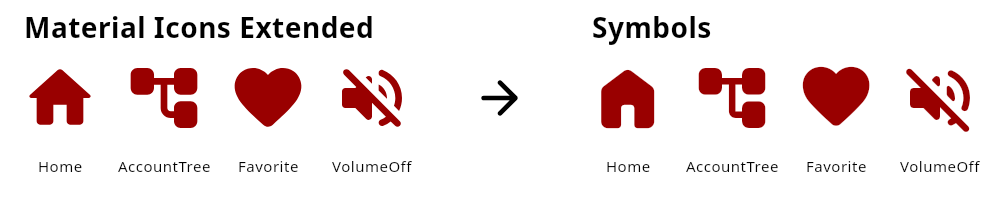
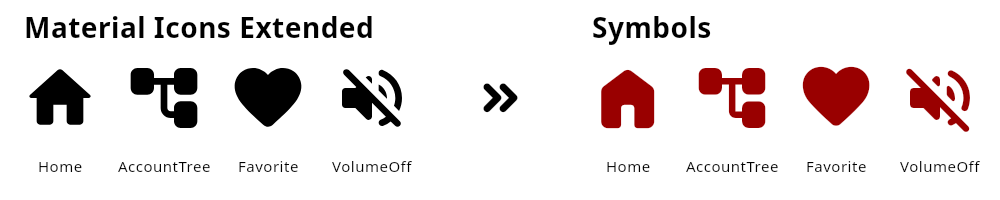
Animate Symbols colors and double-arrow cues during transitions

diff --git a/tools/readme-media/src/main/kotlin/ReadmeMedia.kt b/tools/readme-media/src/main/kotlin/ReadmeMedia.kt
@@ -1,6 +1,10 @@
 @file:OptIn(androidx.compose.ui.ExperimentalComposeUiApi::class)
 
 import androidx.compose.animation.core.animateFloatAsState
+import androidx.compose.animation.core.Animatable
+import androidx.compose.animation.core.CubicBezierEasing
+import androidx.compose.animation.core.FastOutSlowInEasing
+import androidx.compose.animation.core.keyframes
 import androidx.compose.foundation.background
 import androidx.compose.foundation.layout.Box
 import androidx.compose.foundation.layout.offset
@@ -15,8 +19,10 @@ import androidx.compose.material3.MaterialExpressiveTheme
 import androidx.compose.material3.MaterialTheme
 import androidx.compose.material3.Text
 import androidx.compose.runtime.Composable
+import androidx.compose.runtime.LaunchedEffect
 import androidx.compose.runtime.State
 import androidx.compose.runtime.mutableStateOf
+import androidx.compose.runtime.remember
 import androidx.compose.runtime.snapshots.Snapshot
 import androidx.compose.ui.Alignment
 import androidx.compose.ui.ImageComposeScene
@@ -30,7 +36,6 @@ import io.github.hlcaptain.symbols.Symbols
 import io.github.hlcaptain.symbols.font.SymbolFontIcon
 import io.github.hlcaptain.symbols.font.fontSettings
 import io.github.hlcaptain.symbols.material.*
-import io.github.hlcaptain.symbols.material.rounded.vectors.ArrowForward
 import io.github.hlcaptain.symbols.material.rounded.vectors.Home
 import java.io.File
 import javax.imageio.ImageIO
@@ -46,7 +51,6 @@ private const val Width = 1000
 private const val Height = 200
 private const val FrameNanos = 16_666_667L
 private const val SettledHoldFrames = 90 // 1.5 seconds after the spring finishes, at 60 Hz.
-private const val RainbowCycleFrames = 300 // Five seconds at 60 Hz.
 
 private data class Example(val legacy: ImageVector, val codePoint: Int) {
     val name: String get() = legacy.name.substringAfterLast('.')
@@ -109,6 +113,33 @@ private fun animatedAxes(target: Axes, finishedListener: ((Float) -> Unit)? = nu
 }
 
 @Composable
+private fun animatedTint(step: Float, finishedListener: ((Float) -> Unit)? = null): Color {
+    val animatedStep = animateFloatAsState(
+        step, MaterialTheme.motionScheme.defaultSpatialSpec<Float>(),
+        label = "Hue", finishedListener = finishedListener,
+    ).value
+    val hue = (animatedStep * 360f / ComparisonStates.lastIndex % 360f + 360f) % 360f
+    return Color.hsv(hue, 1f, 0.6f)
+}
+
+@Composable
+private fun animatedArrow(step: Float, finishedListener: (() -> Unit)? = null): Float {
+    val offset = remember { Animatable(0f) }
+    LaunchedEffect(step) {
+        if (step != 0f) {
+            offset.animateTo(0f, keyframes {
+                durationMillis = 1000
+                0f at 0 using FastOutSlowInEasing
+                8f at 350 using CubicBezierEasing(0.42f, 0f, 0.58f, 1f)
+                0f at 1000
+            })
+        }
+        finishedListener?.invoke()
+    }
+    return offset.value
+}
+
+@Composable
 private fun Label(text: String, x: Int, y: Int, size: Int = 16, bold: Boolean = false) {
     Text(
         text,
@@ -155,14 +186,24 @@ private fun Glyph(
 }
 
 @Composable
-private fun Comparison(target: Axes, tint: Color, extraDrawingSpace: Int = 0, finishedListener: (Float) -> Unit) {
+private fun Comparison(target: Axes, tint: Color, arrowOffset: Float = 0f, extraDrawingSpace: Int = 0, finishedListener: (Float) -> Unit) {
     val axes = animatedAxes(target, finishedListener)
     Box(Modifier.size(Width.dp, Height.dp).background(Color.White)) {
         Label("Material Icons Extended", 24, 8, 28, bold = true)
         Label("Symbols", 592, 8, 28, bold = true)
-        Icon(Icons.Rounded.ArrowForward, null, Modifier.offset(472.dp, 70.dp).size(56.dp), tint = Color.Black)
+        val arrowPadding = 56 / 8 + extraDrawingSpace
+        SymbolFontIcon(
+            codePoint = Symbols.Material.KeyboardDoubleArrowRight.codePoint,
+            font = Font,
+            contentDescription = null,
+            modifier = Modifier.offset((472f + arrowOffset - arrowPadding).dp, (70 - arrowPadding).dp)
+                .size((56 + arrowPadding * 2).dp),
+            size = 56.dp,
+            tint = Color.Black,
+            fontSettings = { Font.fontSettings(mapOf("wght" to 700f)) },
+        )
         Examples.forEachIndexed { i, icon ->
-            Icon(icon.legacy, null, Modifier.offset((20 + i * 104).dp, 58.dp).size(80.dp), tint = tint)
+            Icon(icon.legacy, null, Modifier.offset((20 + i * 104).dp, 58.dp).size(80.dp), tint = Color.Black)
             Glyph(icon.codePoint, 588 + i * 104, 58, 80, axes, extraDrawingSpace = extraDrawingSpace, tint = tint)
             listOf(10, 578).forEach { start ->
                 CenteredLabel(icon.name, start + i * 104, 150, 100, 15)
@@ -213,8 +254,10 @@ private suspend fun capture(name: String, comparison: Boolean) {
     val states = if (comparison) ComparisonStates else VariableStates
     val initial = states.first()
     val target = mutableStateOf(initial)
-    val tint = mutableStateOf(Color.hsv(0f, 1f, 0.6f))
+    val hueStep = mutableStateOf(0f)
     var animationFinished = true
+    var hueFinished = true
+    var arrowFinished = true
     if (comparison) {
         // One completion callback is sufficient only when exactly one axis changes.
         check(states.zipWithNext().all { (a, b) ->
@@ -224,19 +267,27 @@ private suspend fun capture(name: String, comparison: Boolean) {
     }
     val scene = ImageComposeScene(Width, Height, coroutineContext = Dispatchers.Unconfined) {
         MaterialExpressiveTheme {
-            if (comparison) Comparison(target.value, tint.value) { animationFinished = true } else VariableFonts(target.value)
+            if (comparison) {
+                Comparison(
+                    target.value,
+                    animatedTint(hueStep.value) { hueFinished = true },
+                    animatedArrow(hueStep.value) { arrowFinished = true },
+                ) {
+                    animationFinished = true
+                }
+            } else VariableFonts(target.value)
         }
     }
     // Same released renderer and font size, with a roomier layout to reveal internal clipping.
     val reference = ImageComposeScene(Width, Height, coroutineContext = Dispatchers.Unconfined) {
         MaterialExpressiveTheme {
-            if (comparison) Comparison(target.value, tint.value, extraDrawingSpace = 20) {}
+            if (comparison) Comparison(target.value, animatedTint(hueStep.value), animatedArrow(hueStep.value), extraDrawingSpace = 20) {}
             else VariableFonts(target.value, extraDrawingSpace = 20)
         }
     }
     // Skia's font antialiasing depends on tint; verify settled geometry in its original black.
     val shapes = if (comparison) ImageComposeScene(Width, Height, coroutineContext = Dispatchers.Unconfined) {
-        MaterialExpressiveTheme { Comparison(target.value, Color.Black) {} }
+        MaterialExpressiveTheme { Comparison(target.value, Color.Black, animatedArrow(hueStep.value)) {} }
     } else null
     var time = 0L
     var referencePng = byteArrayOf()
@@ -271,11 +322,6 @@ private suspend fun capture(name: String, comparison: Boolean) {
         check(states.last() == initial)
         var frameCount = 0
         fun recordFrame() {
-            if (comparison) Snapshot.withMutableSnapshot {
-                // ponytail: 10 Hz hue limits file size; remove quantization if 30 Hz fits the media budget.
-                val colorFrame = frameCount / 6 * 6
-                tint.value = Color.hsv((colorFrame % RainbowCycleFrames) * 360f / RainbowCycleFrames, 1f, 0.6f)
-            }
             val png = frame()
             if (frameCount % 2 == 0) {
                 val filename = "%04d.png".format(frameCount / 2)
@@ -289,9 +335,14 @@ private suspend fun capture(name: String, comparison: Boolean) {
             val startFrame = frameCount
             var settledFrame: Int? = null
             animationFinished = index == 0
-            Snapshot.withMutableSnapshot { target.value = axes }
+            hueFinished = index == 0
+            arrowFinished = index == 0
+            Snapshot.withMutableSnapshot {
+                target.value = axes
+                hueStep.value = index.toFloat()
+            }
             if (comparison) {
-                while (!animationFinished) {
+                while (!animationFinished || !hueFinished || !arrowFinished) {
                     check(frameCount - startFrame < 600) { "Animation did not finish: $axes" }
                     recordFrame()
                 }
@@ -299,10 +350,6 @@ private suspend fun capture(name: String, comparison: Boolean) {
                 if (frameCount % 2 != 0) recordFrame()
                 settledFrame = frameCount
                 repeat(SettledHoldFrames) { recordFrame() }
-                // Finish the final hue cycle on the original shape, including its first color.
-                if (index == states.lastIndex) {
-                    while ((frameCount - 2) % RainbowCycleFrames != 0) recordFrame()
-                }
             } else {
                 repeat(96) { recordFrame() }
             }

diff --git a/tools/readme-media/encode.py b/tools/readme-media/encode.py
@@ -14,12 +14,6 @@ HERE = Path(__file__).resolve().parent
 DESTINATION = HERE.parents[1] / "docs" / "media"
 
 
-def vector_silhouette(frame):
-    # Vector coverage retains a zero channel; native fonts use captured black references.
-    red, green, blue = frame.split()
-    return ImageChops.darker(ImageChops.darker(red, green), blue)
-
-
 def encode(name: str) -> None:
     assert name in ("icons-comparison", "variable-fonts"), f"Unknown capture: {name}"
     paths = sorted((HERE / "build" / "frames" / name).glob("*.png"))
@@ -51,20 +45,27 @@ def encode(name: str) -> None:
             with Image.open(path) as image:
                 assert image.size == (1000, 200)
                 shapes.append(image.convert("L"))
-        left = (0, 0, 578, 200)
-        first_left = vector_silhouette(first).crop(left)
-        assert all(ImageChops.difference(first_left, vector_silhouette(frame).crop(left)).getbbox() is None for frame in frames), "Legacy shapes must remain still"
-        for crop in ((0, 0, 1000, 45), (0, 150, 1000, 200), (450, 0, 578, 200)):
-            assert all(ImageChops.difference(first.crop(crop), frame.crop(crop)).getbbox() is None for frame in frames), "Text, arrow, and background must remain still"
+        left = (0, 0, 450, 200)
+        first_left = first.crop(left)
+        red, green, blue = first_left.split()
+        assert ImageChops.difference(red, green).getbbox() is None
+        assert ImageChops.difference(red, blue).getbbox() is None, "Legacy icons must stay black"
+        assert all(ImageChops.difference(first_left, frame.crop(left)).getbbox() is None for frame in frames), "Legacy side must remain still"
+        for crop in ((0, 0, 1000, 45), (0, 150, 1000, 200)):
+            assert all(ImageChops.difference(first.crop(crop), frame.crop(crop)).getbbox() is None for frame in frames), "Text and background must remain still"
+        arrow_crop = (450, 50, 578, 145)
+        arrow_boxes = []
+        for frame in frames:
+            red, green, blue = frame.crop(arrow_crop).split()
+            assert ImageChops.difference(red, green).getbbox() is None
+            assert ImageChops.difference(red, blue).getbbox() is None, "Arrow must stay black"
+            arrow_boxes.append(ImageChops.invert(red).getbbox())
+        resting_arrow = arrow_boxes[0]
+        assert resting_arrow is not None
+        assert all(box is not None and box[1::2] == resting_arrow[1::2]
+                   and box[2] - box[0] == resting_arrow[2] - resting_arrow[0]
+                   and 0 <= box[0] - resting_arrow[0] <= 8 for box in arrow_boxes), "Arrow must move horizontally within 8 pixels"
         crops = [(588 + i * 104, 58, 668 + i * 104, 138) for i in range(4)]
-        both_sides = [(20 + i * 104, 58, 100 + i * 104, 138) for i in range(4)] + crops
-        assert (count - 1) % 150 == 0, "The loop must finish a complete five-second hue cycle"
-        for index in sorted({0, 1, 2, 3, count - 1, 50, 100, *range(0, count, 15)}):
-            hue_frame = index // 3 * 3
-            expected_color = tuple(round(channel * 255) for channel in colorsys.hsv_to_rgb((hue_frame % 150) / 150, 1, 0.6))
-            for crop in both_sides:
-                ink = min(frames[index].crop(crop).get_flattened_data(), key=sum)
-                assert all(abs(actual - expected) <= 1 for actual, expected in zip(ink, expected_color)), f"Unsynchronized rainbow tint in frame {index}: {ink} != {expected_color}"
         expected = [
             (1, 400, 0, 24), (1, 100, 0, 24), (0, 100, 0, 24), (0, 400, 0, 24),
             (1, 400, 0, 24), (1, 700, 0, 24), (0, 700, 0, 24), (0, 400, 0, 24),
@@ -81,14 +82,27 @@ def encode(name: str) -> None:
             start, finish, end = (int(state[key]) for key in ("frame", "settledFrame", "endFrame"))
             assert start == previous_end and start <= finish < end
             assert all(frame % 2 == 0 for frame in (start, finish, end)), "Timing must align with exported frames"
-            if index == len(expected) - 1:
-                assert 90 <= end - finish < 390, "The final hold completes the hue cycle"
-            else:
-                assert end - finish == 90, "Every completed spring needs a 1.5-second hold"
+            assert end - finish == 90, "Every completed spring needs a 1.5-second hold"
             assert (finish == start) if index == 0 else (finish > start), "Wait for the animation completion callback"
             assert tuple(float(state[key]) for key in ("fill", "weight", "grade", "opticalSize")) == axes
             hold = shapes[finish // 2:end // 2]
             assert all(ImageChops.difference(hold[0], frame).getbbox() is None for frame in hold), "Settled hold must keep its shape"
+            colored_hold = frames[finish // 2:end // 2]
+            assert all(ImageChops.difference(colored_hold[0], frame).getbbox() is None for frame in colored_hold), "Tint must stay fixed throughout the hold"
+            expected_color = tuple(round(channel * 255) for channel in colorsys.hsv_to_rgb(index / (len(expected) - 1), 1, 0.6))
+            for crop in crops:
+                ink = min(colored_hold[0].crop(crop).get_flattened_data(), key=sum)
+                assert all(abs(actual - color) <= 1 for actual, color in zip(ink, expected_color)), f"Unexpected settled Symbols tint in state {index}: {ink} != {expected_color}"
+            if index:
+                transition = frames[start // 2:finish // 2]
+                tints = {min(frame.crop(crops[0]).get_flattened_data(), key=sum) for frame in transition}
+                assert len(tints) > 1, "Tint must animate during the transition"
+                arrow_track = [box[0] - resting_arrow[0] for box in arrow_boxes[start // 2:finish // 2]]
+                assert max(arrow_track) == 8 and arrow_track[0] == 0 and arrow_track[-1] == 0, "Each transition needs a complete arrow nudge"
+                peak = arrow_track.index(8)
+                assert all(a <= b for a, b in zip(arrow_track[:peak], arrow_track[1:peak + 1]))
+                assert all(a >= b for a, b in zip(arrow_track[peak:], arrow_track[peak + 1:])), "Arrow must return gently without reversing again"
+                assert ImageChops.difference(colored_hold[0].crop(arrow_crop), first.crop(arrow_crop)).getbbox() is None, "Arrow must return to rest before the hold"
             settled.append(hold[0].crop((578, 50, 1000, 145)))
             previous_end = end
         changes = [[a != b for a, b in zip(before, after)] for before, after in zip(expected, expected[1:])]
@@ -127,11 +141,12 @@ def encode(name: str) -> None:
     ], check=True)
     # Inspect the encoded output as well as the source frames; Pillow never writes media.
     with Image.open(target) as decoded:
-        assert decoded.is_animated and decoded.n_frames > 30
+        assert decoded.is_animated and decoded.n_frames == count
         assert decoded.info["loop"] == 2
         duration = 0
         for index in range(decoded.n_frames):
             decoded.seek(index)
+            assert ImageChops.difference(frames[index], decoded.convert("RGB")).getbbox() is None, f"Encoded frame {index} differs from native capture"
             duration += decoded.info["duration"]
         assert abs(duration - count * 1000 / 30) < 1, f"Unexpected duration: {duration}"
         assert ImageChops.difference(first, decoded.convert("RGB")).getbbox() is None

diff --git a/tools/readme-media/README.md b/tools/readme-media/README.md
@@ -32,17 +32,18 @@ waits for visible glyphs before recording; it does not assume a font-loading del
 
 Both compact layouts use black text on white, without card boxes,
 subtitles, or footer labels. The comparison retains its main titles and icon
-names: `Home`, `AccountTree`, `Favorite`, and `VolumeOff`. An actual Rounded
-`ArrowForward` ImageVector sits between the two sides. Material Icons Extended
-1.7.3 Rounded vector shapes stay fixed on the left through standard `Icon`.
+names: `Home`, `AccountTree`, `Favorite`, and `VolumeOff`. A Rounded
+`KeyboardDoubleArrowRight` glyph at weight 700 sits between the two sides. Material Icons Extended 1.7.3 Rounded vector shapes stay fixed and black
+on the left through standard `Icon`.
 Labels use the legacy vector's `name.substringAfterLast('.')`, matching the
 rendered reference names.
 On the right, Symbols' live Rounded font animates fill, weight, optical size,
-and grade at the same requested icon size and tint. Both columns share a continuous
-five-second hue cycle using HSV saturation `1` and value `0.6`; text and the arrow
-stay black. Hue updates at 10 Hz to keep the APNG compact, while axis motion
-retains the full 30 fps export. This tint keeps every hue at least 3:1 against white. The variable-font
-demo keeps its black glyphs. The comparison begins and ends at
+and grade at the same requested icon size and tint. Only Symbols changes tint.
+Each axis transition advances the unwrapped hue
+by 15 degrees through the same expressive spatial motion scheme, using HSV
+saturation `1` and value `0.6`. Color and shape stop changing during the settled
+holds; text and the arrow stay black. This tint keeps every hue at least 3:1
+against white. The variable-font demo keeps its black glyphs. The comparison begins and ends at
 `FILL=1, wght=400, GRAD=0, opsz=24` and its initial red tint.
 
 Starting filled at the default axes, the comparison runs these three segments
@@ -58,27 +59,33 @@ retain their values. The final fill toggle returns to `FILL=1` at the defaults.
 
 The 25 targets produce 24 transitions: 12 fill changes and four changes each
 to weight, optical size, and grade. The initial state holds for 1.5 seconds.
-Every transition then waits for its expressive spring to finish and holds the
-settled state for another 1.5 seconds before advancing. The final hold extends
-only far enough to finish the rainbow cycle on its initial color. The comparison
-lasts 50.033 seconds: 1,501 exported frames at 30 fps and ten full hue cycles.
+Every transition waits for the axis spring, hue spring, and arrow motion to
+finish, then holds the complete settled frame for 1.5 seconds. The 24 color
+steps complete one rainbow cycle and return to the initial red. The comparison
+lasts 62.3 seconds: 1,869 exported frames at 30 fps.
+
+The arrow moves 8 dp right in 350 ms using `FastOutSlowInEasing`, then returns
+left in 650 ms using `CubicBezierEasing(0.42, 0, 0.58, 1)`. It stays on the same
+horizontal baseline and rests during every settled hold. The one-second motion
+uses Compose `Animatable` keyframes driven by the same capture clock.
 
 `states.csv` records each target's start (`frame`), completion-aligned hold
 start (`settledFrame`), and end (`endFrame`) as native 60 Hz frame indices.
-The encoder verifies that the first 24 holds span 90 native frames (1.5 seconds),
-the final hold completes the hue cycle, and all 24 axis transitions are visible.
+The encoder verifies that all 25 holds span 90 native frames (1.5 seconds),
+the hue returns to red, and all 24 axis transitions are visible.
 It checks pixel-static geometry during holds against additional black Compose
-captures, since Skia's font antialiasing changes with tint. The legacy vector
-silhouettes stay identical throughout using their minimum RGB channel.
-It also checks synchronized hue samples in all eight icons and
-unchanged text, arrow, and background pixels.
+captures, since Skia's font antialiasing changes with tint. The entire legacy
+half stays pixel-identical throughout. Checks require all four Symbols glyphs
+to reach the expected color, tint to animate during transitions, complete colored
+frames to stay pixel-static during holds, and the arrow to move only horizontally
+within 8 pixels and return to rest. Text and background pixels stay unchanged.
 
 Capture glyphs use 1.25-em drawing boxes, adding `size / 8` on each edge for the
 pinned Rounded font's 1.2-em line height. Font size stays unchanged; this adjusts
 only the capture layout, not the released renderer. The clipping guard rejected
 the original square bounds. The padded capture then matched a reference with
-another 20 pixels on each edge across all 3,002 comparison and 480 variable-demo
-native frames, verifying every frame against roomier drawing bounds.
+another 20 pixels on each edge for every comparison and variable-demo native
+frame, verifying the icons and moving arrow against roomier drawing bounds.
 
 The variable-font image has four columns from one font, isolating fill, weight,
 grade, and optical size. Weight, grade, and optical size follow
@@ -105,6 +112,7 @@ first frame. The variable-font demo remains eight seconds (240 exported frames).
 Each animation plays twice and ends on its initial state. The encoder verifies
 motion in every icon/axis, static legacy shapes, seamless color and shape loop
 endpoints, decoded duration and repeat count. Comparison checks cover segment order,
-single-axis transitions, spring completion, and the settled holds. Frames and
+single-axis transitions, spring completion, the arrow excursion, and the settled
+holds. Every decoded frame must match its native capture exactly. Frames and
 Gradle outputs remain under ignored `build/`. Platform fonts may change text
 rasterization across operating systems; regenerate both assets on the same host.

diff --git a/README.md b/README.md
@@ -8,7 +8,7 @@ Shrinkable vectors and Android drawables that help keep APKs small.
 [![CI](https://github.com/HLCaptain/symbols/actions/workflows/ci.yml/badge.svg)](https://github.com/HLCaptain/symbols/actions/workflows/ci.yml)
 [![License](https://img.shields.io/badge/license-Apache--2.0-blue.svg)](LICENSE)
 
-![Home, AccountTree, Favorite, and VolumeOff compared side by side. Classic Material Icons Extended vectors keep their shapes on the left; the Rounded Material Symbols variable font is on the right. Both icon columns share a synchronized five-second rainbow color cycle and start filled. Symbols varies weight, optical size, and grade, toggling fill after each axis step with a pause after every transition. The sequence returns to filled icons at default weight, grade, optical size, and its initial color.](docs/media/icons-comparison.png)
+![Home, AccountTree, Favorite, and VolumeOff compared side by side. Classic Material Icons Extended vectors keep their shapes on the left; the Rounded Material Symbols variable font is on the right. Material Icons Extended stays black. Symbols changes rainbow color during each transition and holds its color between transitions. Both columns start filled. Symbols varies weight, optical size, and grade, toggling fill after each axis step with a pause after every transition. A bold Keyboard Double Arrow Right nudges slightly toward Symbols and returns to rest during each transition. The sequence returns to filled icons at default weight, grade, optical size, and its initial color.](docs/media/icons-comparison.png)
 
 Replace the deprecated `material-icons-extended` library while keeping Compose's standard `Icon`.
 Add a pack and use typed names—without per-icon downloads or hand-maintained
